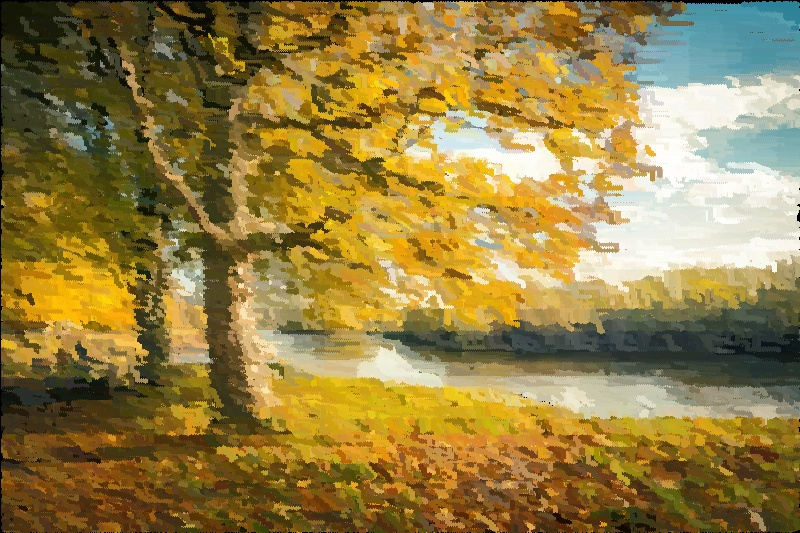
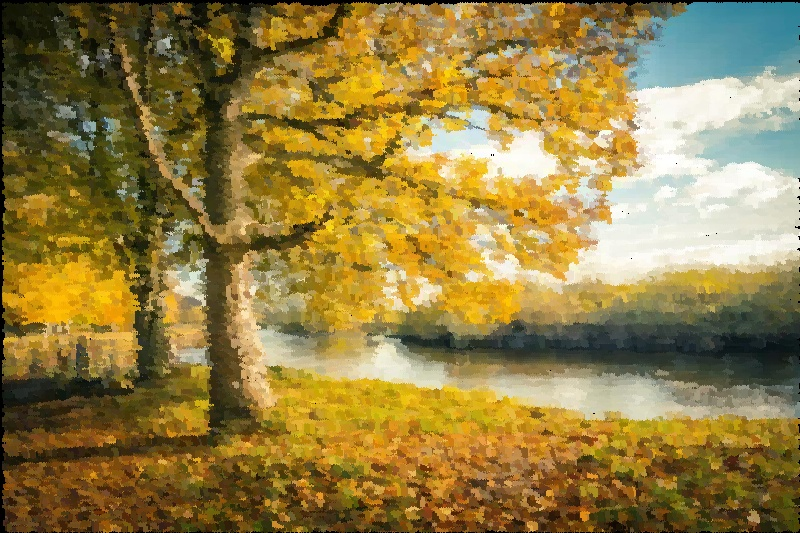
makeStroke grad

diff --git a/python/src/makeStroke.py b/python/src/makeStroke.py
@@ -5,7 +5,7 @@ from estimate import *
 
 
 
-def makeStroke(R, x0, y0, x, y, refColor, canvas, gradX, gradY, gradM, strokeLen, dxF, dyF, strokeColor):
+def makeStroke(R, x0, y0, x, y, refColor, canvas, gradX_xy, gradY_xy, gradM_xy, strokeLen, dxF, dyF, strokeColor):
     # x0, y0 : initial image coordinate
     # gradX, gradY : gradient direction
     # gradM : gradient magnitude
@@ -34,15 +34,15 @@ def makeStroke(R, x0, y0, x, y, refColor, canvas, gradX, gradY, gradM, strokeLen
                 ) < abs(int(refColor[2]) - int(strokeColor[2]))
     diffColor = (diffR and diffG and diffB)
     # returns stroke if refColor difference exceeded
-    if (strokeLen > minLen and diffColor) or gradM[x, y] == 0 or strokeLen == maxLen:
+    if (strokeLen > minLen and diffColor) or gradM_xy == 0 or strokeLen == maxLen:
         # print("break 3")
         finish = True
     else:
     # if gradM[x, y] == 0:  # returns if gradient zero
     #     finish = True
     # normal gradient to stroke path
-        dx = -gradY[x, y]
-        dy = gradX[x, y]
+        dx = -gradY_xy
+        dy = gradX_xy
         if (dxF * dx + dyF * dy < 0):  # ensures positve normal gradient
             dx = -dx
             dy = -dy

diff --git a/python/src/paintLayer.py b/python/src/paintLayer.py
@@ -116,8 +116,11 @@ def paintLayer(canvas, refImage, brushSize, fg=1):
                         finish = True
                     else:
                         refColor = refImage[x, y]
+                        gradX_xy = gradX[x,y]
+                        gradY_xy = gradY[x,y]
+                        gradM_xy = gradM[x,y]
                         stroke, dxF, dyF, strokeLen, finish = makeStroke(
-                        brushSize, x_0, y_0, x, y, refColor, canvas, gradX, gradY, gradM, strokeLen, dxF, dyF, strokeColor)
+                        brushSize, x_0, y_0, x, y, refColor, canvas, gradX_xy, gradY_xy, gradM_xy, strokeLen, dxF, dyF, strokeColor)
                         x = stroke[0]
                         y = stroke[1]
                 # return gradM
